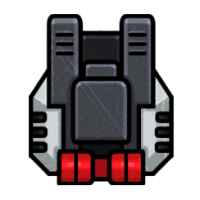
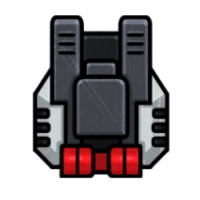
немного подправил масштаб юнитов

Changed region(s): [[0.12, 0.06, 0.87, 0.93]]

diff --git a/src/static/field/js/Unit/Create.js b/src/static/field/js/Unit/Create.js
@@ -17,10 +17,21 @@ function CreateUnit(unitStat, inVisible) {
     game.physics.enable(unit, Phaser.Physics.ARCADE);
     unit.anchor.setTo(0.5, 0.5);
     unit.inputEnabled = true;             // включаем ивенты на спрайт
-
-    let bodyShadow = game.make.sprite(game.shadowXOffset, game.shadowYOffset, unitStat.body.name);
+    
+    let bodyShadow;
+    if (unitStat.body.mother_ship) {
+        bodyShadow = game.make.sprite(game.shadowXOffset, game.shadowYOffset, unitStat.body.name);
+    } else {
+        bodyShadow = game.make.sprite(game.shadowXOffset / 2, game.shadowYOffset / 2, unitStat.body.name);
+    }
     unit.addChild(bodyShadow);
-    bodyShadow.scale.setTo(0.5, 0.5);
+
+    if (unitStat.body.mother_ship) {
+        bodyShadow.scale.setTo(0.5, 0.5);
+    } else {
+        bodyShadow.scale.setTo(0.3, 0.3);
+    }
+
     bodyShadow.anchor.set(0.5);
     bodyShadow.tint = 0x000000;
     bodyShadow.alpha = 0.4;
@@ -31,16 +42,27 @@ function CreateUnit(unitStat, inVisible) {
     for (let i in unitStat.body.weapons) {
         if (unitStat.body.weapons.hasOwnProperty(i) && unitStat.body.weapons[i].weapon) {
             weapon = game.make.sprite(0, 0, unitStat.body.weapons[i].weapon.name);
-            weaponShadow = game.make.sprite(game.shadowXOffset/2, game.shadowYOffset/2, unitStat.body.weapons[i].weapon.name);
+            weaponShadow = game.make.sprite(game.shadowXOffset / 2, game.shadowYOffset / 2, unitStat.body.weapons[i].weapon.name);
         }
     }
 
     if (weapon) {
         weapon.anchor.setTo(0.5, 0.61);
-        weapon.scale.setTo(0.5, 0.5);
+
+        if (unitStat.body.mother_ship) {
+            weapon.scale.setTo(0.5, 0.5);
+        } else {
+            weapon.scale.setTo(0.3, 0.3);
+        }
 
         weaponShadow.anchor.setTo(0.5, 0.61);
-        weaponShadow.scale.setTo(0.5, 0.5);
+
+        if (unitStat.body.mother_ship) {
+            weaponShadow.scale.setTo(0.5, 0.5);
+        } else {
+            weaponShadow.scale.setTo(0.3, 0.3);
+        }
+
         weaponShadow.tint = 0x000000;
         weaponShadow.alpha = 0.4;
     }
@@ -48,7 +70,13 @@ function CreateUnit(unitStat, inVisible) {
     let body = game.make.sprite(0, 0, unitStat.body.name);
     unit.addChild(body);
     game.physics.arcade.enable(body);
-    body.scale.setTo(0.5, 0.5);
+
+    if (unitStat.body.mother_ship) {
+        body.scale.setTo(0.5, 0.5);
+    } else {
+        body.scale.setTo(0.3, 0.3);
+    }
+
     body.inputEnabled = true;             // включаем ивенты на спрайт
     body.anchor.setTo(0.5, 0.5);          // устанавливаем центр спрайта
     body.input.pixelPerfectOver = true;   // уберает ивенты наведения на пустую зону спрайта

diff --git a/src/static/field/index.html b/src/static/field/index.html
@@ -19,6 +19,7 @@
     <script src="js/Interface/unitSubMenu/Buttons.js"></script>
     <script src="js/Interface/unitSubMenu/EffectPanel.js"></script>
     <script src="js/Interface/unitSubMenu/FillingEquipPanel.js"></script>
+    <script src="js/Interface/QueueUnits/QueueUnits.js"></script>
 
     <script src="js/Notifications/Move.js"></script>
     <script src="js/Notifications/ChangePhase.js"></script>
@@ -62,7 +63,6 @@
     <script src="js/LoadGame/LoadGameUnit.js"></script>
     <script src="js/LoadGame/LoadOpenCoordinate.js"></script>
     <script src="js/LoadGame/LoadHoldUnits.js"></script>
-    <script src="js/LoadGame/LoadMemoryUnits.js"></script>
 
     <script src="js/Unit/SelectUnit.js"></script>
     <script src="js/Unit/Move.js"></script>

diff --git a/src/static/field/js/Interface/QueueUnits/QueueUnits.js b/src/static/field/js/Interface/QueueUnits/QueueUnits.js
@@ -1,6 +1,10 @@
 function LoadQueueUnits() {
     document.getElementById("queueLine").innerHTML = "";
-    document.getElementById("queue").style.visibility = "visible";
+
+    if (game.Phase === "move") {
+        document.getElementById("queue").style.visibility = "visible";
+    }
+
     let moveUnit = document.getElementById("moveUnit");
     moveUnit.innerHTML = "";
 
